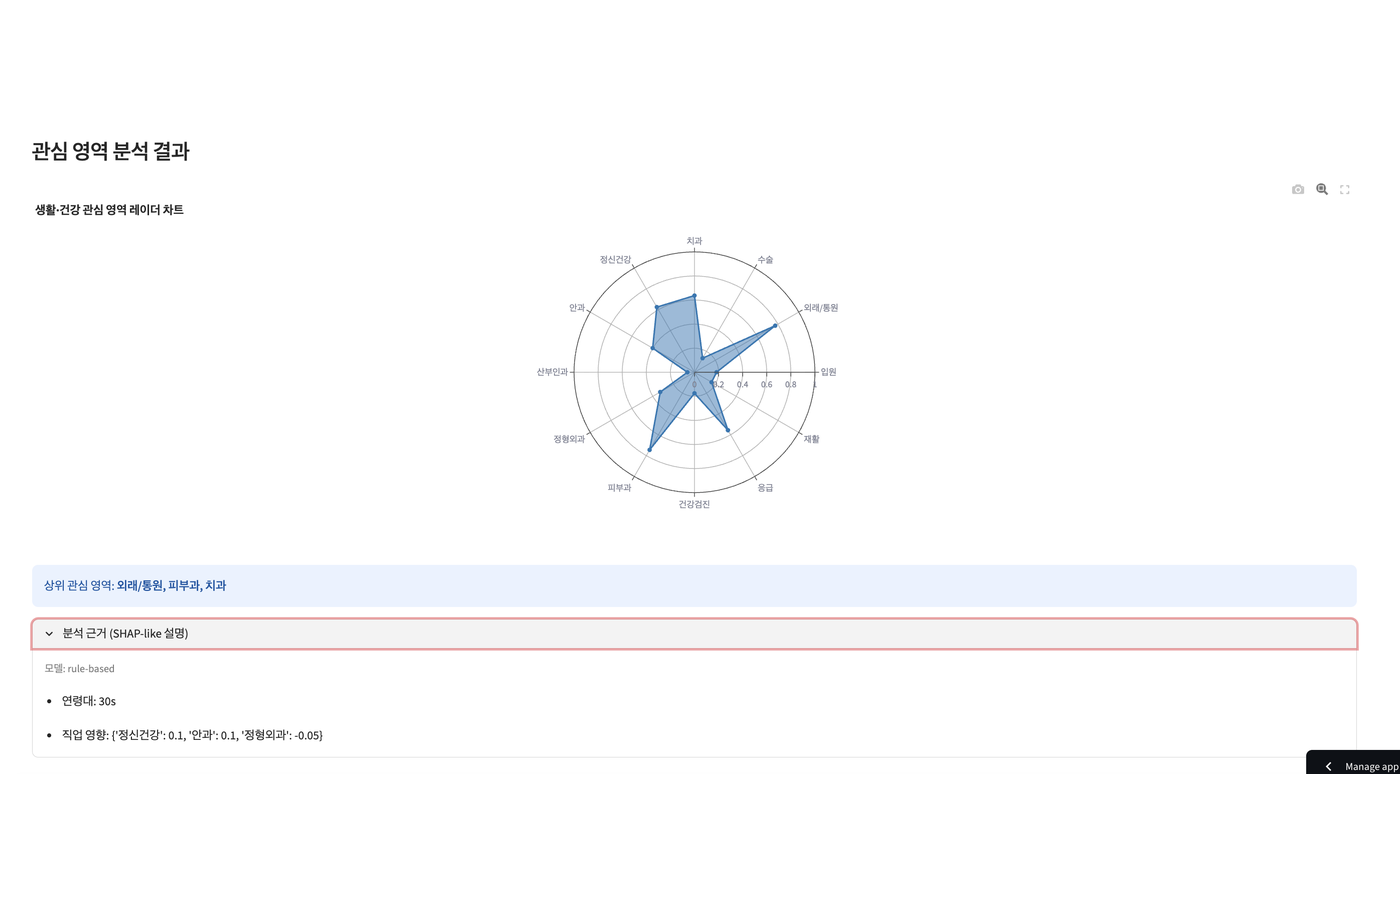
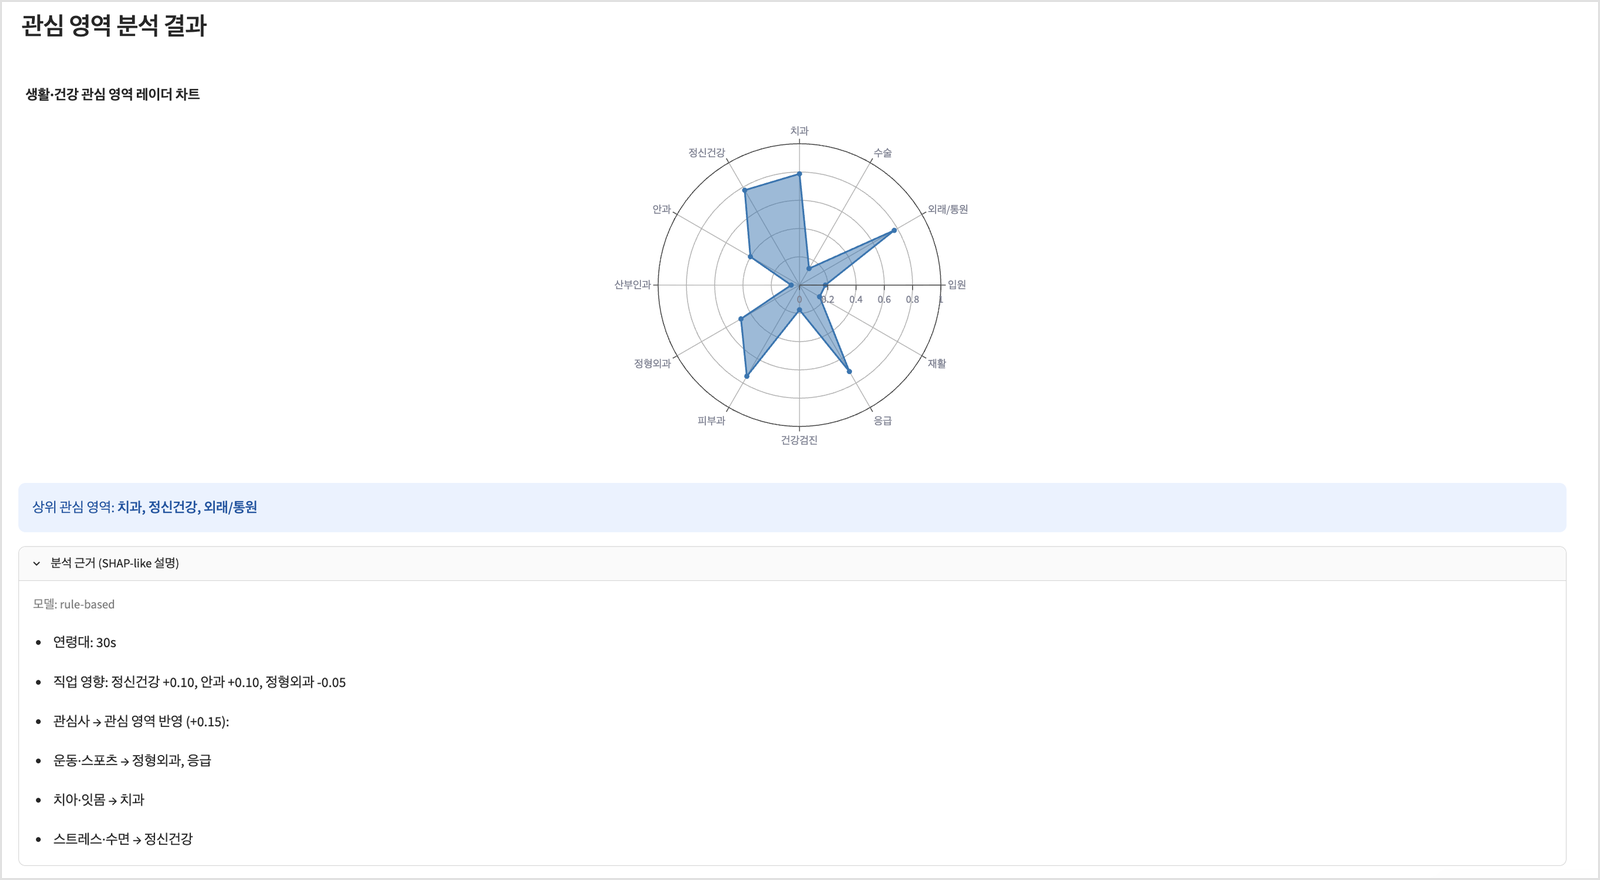
docs: unify README screenshot sizing; nest concern list in profile tab

diff --git a/dashboard/tabs/tab2_my_profile.py b/dashboard/tabs/tab2_my_profile.py
@@ -4,6 +4,7 @@ import streamlit as st
 import plotly.graph_objects as go
 
 from core_pipeline.profiler.health_profiler import HealthProfiler, UserProfile
+from dashboard.text import md
 
 
 def render():
@@ -123,10 +124,10 @@ def render():
                 boosts = shap.get("health_concern_boosts", {})
                 unrecognized = shap.get("health_concern_unrecognized", [])
                 if isinstance(boosts, dict) and boosts:
-                    st.write("- 관심사 → 관심 영역 반영 (+0.15):")
-                    for concern, cats in boosts.items():
-                        st.write(f"    - {concern} → {', '.join(cats)}")
+                    lines = ["- 관심사 → 관심 영역 반영 (+0.15):"]
+                    lines += [f"    - {md(concern)} → {', '.join(cats)}" for concern, cats in boosts.items()]
+                    st.markdown("\n".join(lines))
                 elif isinstance(boosts, list) and boosts:
-                    st.write(f"- 건강 관심사 반영: {', '.join(boosts)}")
+                    st.write(f"- 건강 관심사 반영: {md(', '.join(boosts))}")
                 if unrecognized:
-                    st.write(f"- 인식되지 않은 입력: {', '.join(unrecognized)} — 신체 부위, 증상, 생활습관(운동·식단·수면 등) 단어로 적어주세요.")
+                    st.write(f"- 인식되지 않은 입력: {md(', '.join(unrecognized))} — 신체 부위, 증상, 생활습관(운동·식단·수면 등) 단어로 적어주세요.")
